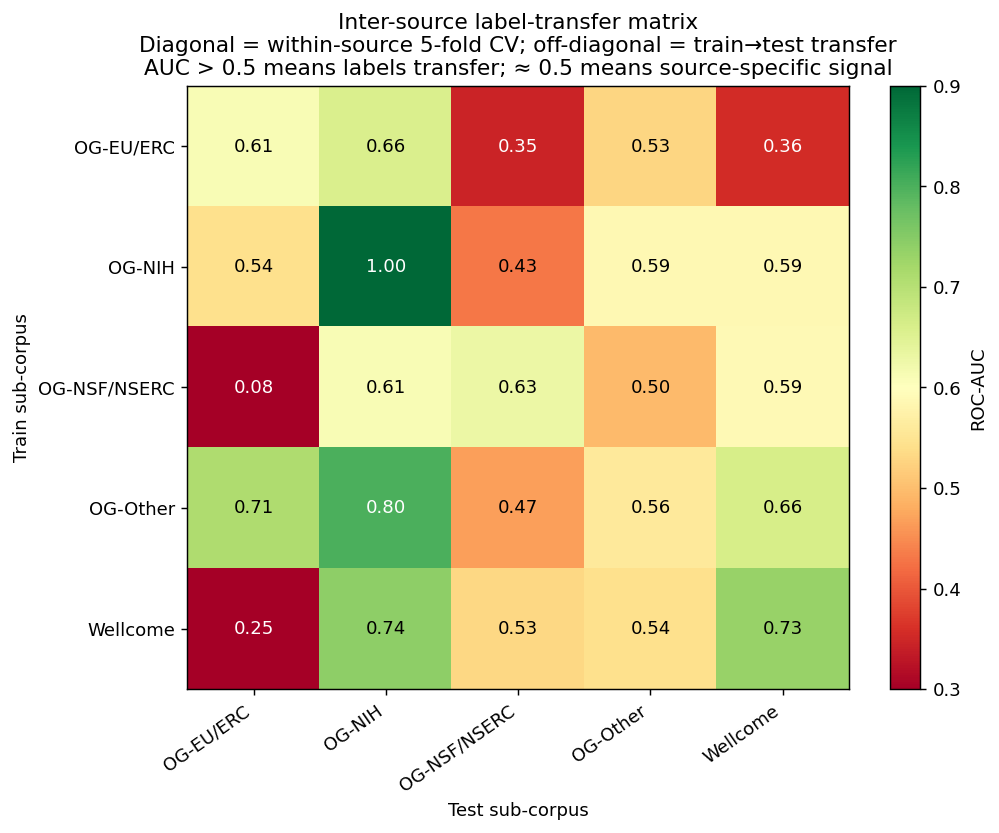
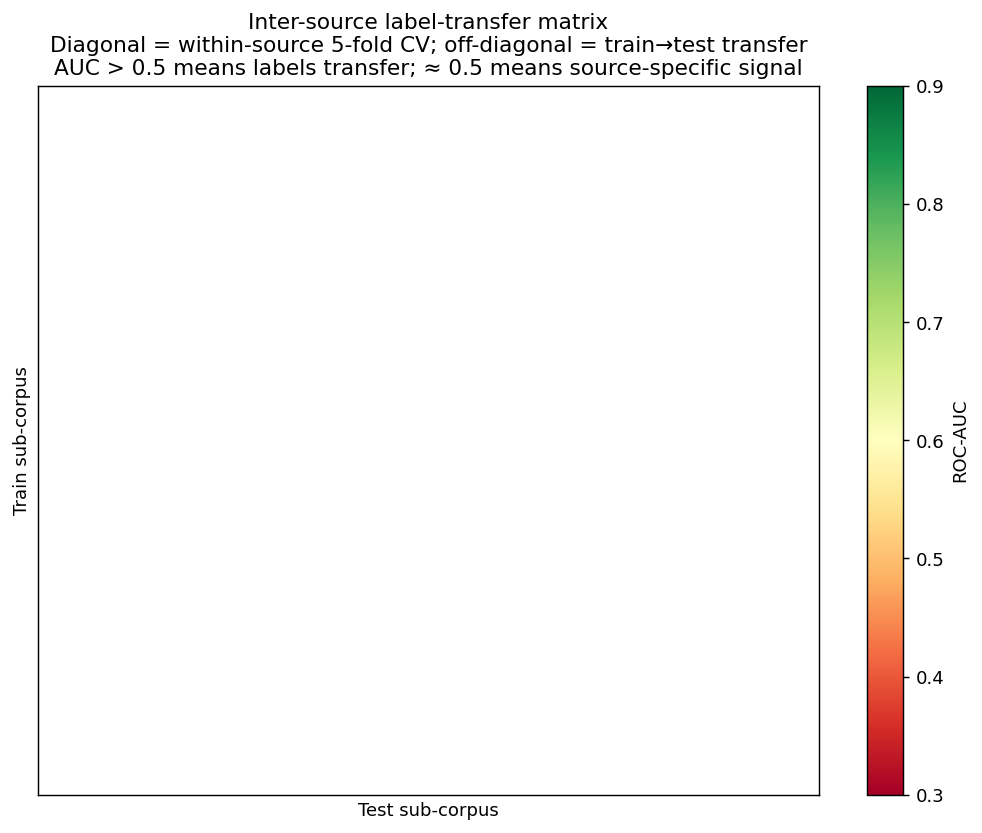
Make every documented command actually run, and correct the claims that were false
The release documented a reproduction path that did not work. Each script now either runs
against this repository alone or states exactly which missing input it needs.

Code fixes:
- code/ablation/ was copied from a backend/scripts/ layout and imported `scripts.ablation`,
  so nothing in it could import. Imports are now package-relative and results resolve to
  the repository's own results/ directory. `cd code && python -m ablation.run --tag
  ogrants166 --aggregate-only` now reproduces all 13 arms offline, with no API key.
- Analysis scripts indexed d["abs_path"], a manifest field renamed to rel_path during
  sanitising, so they died with KeyError. Fixed, and rel_path now resolves against the
  repository root rather than the process working directory.
- wellcome_label_audit.py and build_splits.py resolved their data directory to code/data/
  instead of data/, so the documented audit command could never find its inputs.
- analyze_inter_source_transfer.py wrote to backend/runs/ -- a path from the unpublished
  parent application -- and silently emitted an empty matrix when the document text was
  absent. It writes to data/ and now exits with an explanation instead.
- run_baselines.py injected a hardcoded .venv/lib/python3.11 path into sys.path.
- requirements.txt pinned the parent web application's stack (fastapi, uvicorn, chromadb,
  faiss, sqlalchemy). Replaced with the six packages the code actually imports, noting
  which three suffice for the offline paths.
[…]

diff --git a/code/ablation/run.py b/code/ablation/run.py
@@ -1,20 +1,20 @@
 """CLI orchestrator for the GrantAgent controlled ablation study.
 
-Run from the backend/ directory, e.g.:
+Run from the code/ directory, e.g.:
 
     # smoke test (no key needed; exercises plumbing in heuristic mode)
-    python -m scripts.ablation.run --systems retrieval_knn,single_call --limit 8
+    python -m ablation.run --systems retrieval_knn,single_call --limit 8
 
     # real run on 40 proposals, cheap baselines + full pipeline
-    python -m scripts.ablation.run \
+    python -m ablation.run \
         --systems single_call,multi_criteria_single_call,self_consistency,retrieval_knn,agents_only,no_debate,no_meta,no_guardrails,no_retrieval,full \
         --limit 40 --sc-n 10
 
     # stronger base model
-    LLM_MODEL=gpt-4o-2024-11-20 python -m scripts.ablation.run --systems ... --tag gpt4o
+    LLM_MODEL=gpt-4o-2024-11-20 python -m ablation.run --systems ... --tag gpt4o
 
     # offline re-score: rebuild the report from an existing checkpoint (zero LLM calls)
-    python -m scripts.ablation.run --tag ogrants166 --aggregate-only
+    python -m ablation.run --tag ogrants166 --aggregate-only
 
 Per-proposal predictions stream to a JSONL checkpoint so runs are resumable:
 re-running skips (system,id) pairs already present.  Aggregate metrics and a
@@ -29,16 +29,16 @@ import time
 from pathlib import Path
 
 # --- env must load before any grantagent import (llm singleton at import time) ---
-BACKEND_DIR = Path(__file__).resolve().parents[2]
-sys.path.insert(0, str(BACKEND_DIR))
-from scripts.ablation import envload  # noqa: E402
+REPO_DIR = Path(__file__).resolve().parents[2]
+sys.path.insert(0, str(REPO_DIR))
+from . import envload  # noqa: E402
 envload.load()
 
-from scripts.ablation import dataset, metrics as M  # noqa: E402
-from scripts.ablation.systems import SYSTEMS, BATCH_FIT, Context  # noqa: E402
-from scripts.ablation.budget import METER, meter_llm  # noqa: E402
+from . import dataset, metrics as M  # noqa: E402
+from .systems import SYSTEMS, BATCH_FIT, Context  # noqa: E402
+from .budget import METER, meter_llm  # noqa: E402
 
-OUT_DIR = BACKEND_DIR / "scripts" / "ablation" / "results"
+OUT_DIR = REPO_DIR / "results"
 
 
 def _sc_name(base: str, ctx: Context) -> str:
@@ -49,7 +49,7 @@ def _id_to_source() -> dict:
     """Map eval record id -> source_dataset (from the original run files)."""
     import glob
     m = {}
-    for fp in glob.glob(str(BACKEND_DIR / "runs" / "paper_eval" / "*.json")):
+    for fp in glob.glob(str(REPO_DIR / "runs" / "paper_eval" / "*.json")):
         stem = Path(fp).stem
         try:
             m[stem] = json.load(open(fp)).get("doc", {}).get("source_dataset", "?")

diff --git a/code/analysis/analyze_inter_source_transfer.py b/code/analysis/analyze_inter_source_transfer.py
@@ -36,12 +36,13 @@ warnings.simplefilter("ignore", ConvergenceWarning)
 
 import os
 import argparse
+import sys
 
 # Resolve ROOT relative to script location so the analysis is portable.
 # Override with GRANTREVIEW_ROOT env var.
 ROOT = Path(os.environ.get("GRANTREVIEW_ROOT", Path(__file__).resolve().parents[2]))
 MANIFEST = ROOT / "data" / "master_manifest_v2.json"
-OUT_JSON = ROOT / "backend" / "runs" / "analysis" / "inter_source_transfer.json"
+OUT_JSON = ROOT / "data" / "inter_source_transfer.json"
 OUT_PNG = ROOT / "paper" / "figures" / "v2_transfer_heatmap.png"
 OUT_JSON.parent.mkdir(parents=True, exist_ok=True)
 OUT_PNG.parent.mkdir(parents=True, exist_ok=True)
@@ -62,8 +63,14 @@ def funder_family(funder):
 
 
 def load_text(d):
-    """Load proposal text from disk."""
-    p = Path(d["abs_path"])
+    """Load proposal text from disk.
+
+    Document text is NOT distributed with this repository -- see the README section
+    "Where the document text lives". Fetch it into the paths named by the manifest's
+    rel_path, or point GRANTREVIEW_ROOT at a tree that already has it. Without it every
+    record loads empty and the analysis has nothing to fit.
+    """
+    p = ROOT / d["rel_path"]
     if not p.exists(): return ""
     if d.get("format") == "txt":
         try: return p.read_text(errors="ignore")
@@ -198,6 +205,14 @@ def main():
     M_LO = np.full((n_sources, n_sources), np.nan)
     M_HI = np.full((n_sources, n_sources), np.nan)
     M_P  = np.full((n_sources, n_sources), np.nan)  # one-sided permutation p
+
+    if not sources or all(not final_keep[s] for s in sources):
+        sys.exit(
+            "No proposal text was found, so there is nothing to fit.\n"
+            "This repository ships the manifest, splits, and audit artifacts -- not the\n"
+            "document text. Fetch the documents into the paths named by the manifest's\n"
+            "rel_path field (see the README section 'Where the document text lives'), or\n"
+            "set GRANTREVIEW_ROOT to a tree that already contains them, then re-run.")
 
     print(f"\n=== Inter-source transfer matrix (rows=train, cols=test) ===")
     print(f"Bootstrap iterations: {BOOTSTRAP_ITERS}; permutation iterations: {PERMUTATION_ITERS}; seed: {SEED}")

diff --git a/code/data/build_splits.py b/code/data/build_splits.py
@@ -24,7 +24,7 @@ import random
 from pathlib import Path
 from collections import defaultdict, Counter
 
-ROOT = Path(__file__).resolve().parent
+ROOT = Path(__file__).resolve().parents[2] / "data"
 MANIFEST = ROOT / "master_manifest_v2.json"
 OUT_DIR = ROOT / "splits"
 OUT_FILE = OUT_DIR / "canonical_v1.json"
@@ -73,14 +73,14 @@ def main():
         test += ds[n_train + n_dev:]
 
     # Sanity: no overlap; covers everything
-    train_set = {d["abs_path"] for d in train}
-    dev_set = {d["abs_path"] for d in dev}
-    test_set = {d["abs_path"] for d in test}
-    shift_set = {d["abs_path"] for d in shift}
+    train_set = {d["rel_path"] for d in train}
+    dev_set = {d["rel_path"] for d in dev}
+    test_set = {d["rel_path"] for d in test}
+    shift_set = {d["rel_path"] for d in shift}
     assert len(train_set & dev_set) == 0
     assert len(train_set & test_set) == 0
     assert len(dev_set & test_set) == 0
-    assert (train_set | dev_set | test_set | shift_set) == {d["abs_path"] for d in apps}, "split coverage mismatch"
+    assert (train_set | dev_set | test_set | shift_set) == {d["rel_path"] for d in apps}, "split coverage mismatch"
 
     # Stats
     def stats(name, items):

diff --git a/code/ablation/dataset.py b/code/ablation/dataset.py
@@ -19,9 +19,9 @@ from dataclasses import dataclass, field
 from pathlib import Path
 from typing import Optional
 
-BACKEND_DIR = Path(__file__).resolve().parents[2]
-RUNS_DIR = BACKEND_DIR / "runs" / "paper_eval"
-CACHE_PATH = BACKEND_DIR / "scripts" / "ablation" / "eval_cache.json"
+REPO_DIR = Path(__file__).resolve().parents[2]
+RUNS_DIR = REPO_DIR / "runs" / "paper_eval"
+CACHE_PATH = REPO_DIR / "scripts" / "ablation" / "eval_cache.json"
 
 VALID_LABELS = {"awarded", "declined"}
 
@@ -133,9 +133,9 @@ def label_summary(records: list[EvalRecord]) -> dict:
 
 
 if __name__ == "__main__":
-    # Standalone cache builder:  python -m scripts.ablation.dataset
+    # Standalone cache builder:  python -m ablation.dataset
     import sys
-    sys.path.insert(0, str(BACKEND_DIR))
+    sys.path.insert(0, str(REPO_DIR))
     from . import envload
     envload.load()
     recs = build_cache()

diff --git a/code/analysis/analyze_groupkfold_auc.py b/code/analysis/analyze_groupkfold_auc.py
@@ -25,10 +25,10 @@ Reproducibility
 
 Usage
 -----
-    python backend/scripts/analyze_groupkfold_auc.py
+    python code/analysis/analyze_groupkfold_auc.py
         Prints the GroupKFold AUC column for all baselines that have run/*/*.json files.
 
-    python backend/scripts/analyze_groupkfold_auc.py --baseline length
+    python code/analysis/analyze_groupkfold_auc.py --baseline length
         Single baseline.
 """
 from __future__ import annotations
@@ -42,7 +42,7 @@ from sklearn.metrics import roc_auc_score
 from sklearn.model_selection import GroupKFold
 
 ROOT = Path(__file__).resolve().parents[2]
-# Per-baseline result dirs live under backend/runs/baselines/{baseline}/.
+# Per-baseline result dirs live under the directory given by --runs-dir.
 # Override with --runs-dir if your layout differs.
 RUNS = ROOT / "backend" / "runs" / "baselines"
 DEFAULT_BASELINES = (

diff --git a/code/ablation/crossmodel.py b/code/ablation/crossmodel.py
@@ -3,7 +3,7 @@
 Re-aggregates each tag with the current metrics code (pure cache read), then emits
 a compact per-model table: same 40 source-controlled proposals, same systems.
 
-Usage:  python -m scripts.ablation.crossmodel
+Usage:  python -m ablation.crossmodel
 """
 from __future__ import annotations
 
@@ -35,7 +35,7 @@ SYSTEMS_ARG = "retrieval_knn,single_call,multi_criteria_single_call,agents_only,
 def reaggregate(tag: str) -> None:
     """Regenerate the tag's report from its checkpoint (no LLM calls)."""
     subprocess.run(
-        [sys.executable, "-m", "scripts.ablation.run",
+        [sys.executable, "-m", "ablation.run",
          "--systems", SYSTEMS_ARG, "--source", "ogrants", "--balance", "20",
          "--tag", tag],
         cwd=BACKEND, capture_output=True, text=True, timeout=600,

diff --git a/code/ablation/envload.py b/code/ablation/envload.py
@@ -13,7 +13,7 @@ import os
 from pathlib import Path
 
 # backend/  (two levels up from scripts/ablation/envload.py)
-BACKEND_DIR = Path(__file__).resolve().parents[2]
+REPO_DIR = Path(__file__).resolve().parents[2]
 
 
 def load(path: str | os.PathLike | None = None, override: bool = False) -> dict:
@@ -21,7 +21,7 @@ def load(path: str | os.PathLike | None = None, override: bool = False) -> dict:
 
     Returns a dict of the keys that were set (values omitted for safety).
     """
-    env_path = Path(path) if path else BACKEND_DIR / ".env"
+    env_path = Path(path) if path else REPO_DIR / ".env"
     applied: dict[str, bool] = {}
     if not env_path.exists():
         return applied

diff --git a/code/ablation/analyze.py b/code/ablation/analyze.py
@@ -5,7 +5,7 @@ Reads results/<tag>/ablation_report.json and emits:
   * the budget-matched comparison: full vs self_consistency@N at similar token cost
   * a plain-English findings block for "When Multi-Agent LLM Grant Review Fails"
 
-Usage:  python -m scripts.ablation.analyze --tag paired20
+Usage:  python -m ablation.analyze --tag paired20
 """
 from __future__ import annotations
 
@@ -13,8 +13,8 @@ import argparse
 import json
 from pathlib import Path
 
-BACKEND_DIR = Path(__file__).resolve().parents[2]
-OUT_DIR = BACKEND_DIR / "scripts" / "ablation" / "results"
+REPO_DIR = Path(__file__).resolve().parents[2]
+OUT_DIR = REPO_DIR / "results"
 
 
 def _sig_label(p) -> str:

diff --git a/code/analysis/run_baselines.py b/code/analysis/run_baselines.py
@@ -29,7 +29,6 @@ OUT_BASE = ROOT / "runs" / "baselines"
 OUT_BASE.mkdir(parents=True, exist_ok=True)
 
 sys.path.insert(0, str(ROOT))
-sys.path.insert(0, str(ROOT / ".venv/lib/python3.11/site-packages"))
 
 from openai import OpenAI
 from grantagent.ingest.extract import extract_text
@@ -197,7 +196,7 @@ def main():
             skipped += 1
             continue
 
-        fp = Path(doc["abs_path"])
+        fp = Path(doc["rel_path"])
         if not fp.exists():
             failures += 1
             continue

diff --git a/code/ablation/__init__.py b/code/ablation/__init__.py
@@ -1,7 +1,7 @@
 """Compute-matched ablation harness for the GrantAgent controlled study.
 
 Modules:
-    envload   -- load backend/.env into os.environ (zero-dependency)
+    envload   -- load a local .env into os.environ (zero-dependency)
     budget    -- LLM call/token accounting (the "same total compute" axis)
     dataset   -- build/load the sectionized eval cache from runs/paper_eval
     systems   -- the systems-under-test (baselines + ablations of the full pipeline)

diff --git a/code/data/wellcome_label_audit.py b/code/data/wellcome_label_audit.py
@@ -45,7 +45,7 @@ import random
 import re
 from pathlib import Path
 
-DATA = Path(__file__).resolve().parent
+DATA = Path(__file__).resolve().parents[2] / "data"
 MANIFEST = DATA / "master_manifest_v2.json"
 SAMPLE_OUT = DATA / "wellcome_audit_sample.jsonl"
 SEED = 42

diff --git a/README.md b/README.md
@@ -29,7 +29,7 @@ open `results/ogrants166/ablation_table.md`, or re-derive every aggregate from t
 per-item predictions — no API key, no network, no cost:
 
 ```bash
-python -m code.ablation.run --tag ogrants166 --aggregate-only
+cd code && python -m ablation.run --tag ogrants166 --aggregate-only
 ```
 
 **To evaluate your own system.** Score each proposal in `data/master_manifest_v2.json`,
@@ -40,7 +40,7 @@ place it at `results/<your-tag>/predictions.jsonl`:
 {"system": "my-system", "id": "grb1_<id>.pdf", "label": "awarded", "pred": "awarded", "score": 3.5}
 ```
 
-Then run the same `--aggregate-only` command with your tag to get accuracy, balanced
+Then run the same `--aggregate-only` command with your tag (from `code/`) to get accuracy, balanced
 accuracy, MCC, AUC with bootstrap CIs, ECE, and McNemar tests against the other arms.
 Report the metrics listed under *Recommended evaluation protocol* below.
 
@@ -48,7 +48,7 @@ Report the metrics listed under *Recommended evaluation protocol* below.
 
 ```bash
 export LLM_PROVIDER=openai LLM_MODEL=gpt-4o-mini-2024-07-18 OPENAI_API_KEY=...
-python -m code.ablation.run --systems single_call,full --source ogrants --tag my-run
+cd code && python -m ablation.run --systems single_call,full --source ogrants --tag my-run
 ```
 
 The document text is not distributed here — see *Where the document text lives* below for
@@ -58,20 +58,36 @@ how to obtain it.
 
 ```bash
 
-# §3.4 Wellcome labeling-rule audit
-python code/data/wellcome_label_audit.py --audit
-# Expected: 50/50 agreement, Wilson CI [0.929, 1.000], κ=1.000
-
+# §3.4 Wellcome labeling-rule audit — scores the shipped 50-entry gold sample.
+# Runs against this repository alone.
 python code/data/wellcome_label_audit.py --score data/wellcome_audit_gold.jsonl
-# Expected: 50/50, same Wilson CI, κ=1.000, inter-rater 50/50
+# Expected: 50/50, Wilson CI [0.929, 1.000], κ=1.000, inter-rater 50/50
 
-# §5.3 inter-source label-transfer matrix (5×5; bootstrap CIs + permutation null)
+# --audit re-derives that sample from Wellcome's raw decision manifest, which is NOT
+# shipped here (it is source data, not a release artifact). It reports what is missing
+# and exits rather than producing partial output.
+python code/data/wellcome_label_audit.py --audit
+
+# §5.3 inter-source label-transfer matrix (bootstrap CIs + permutation null).
+# Needs the document text — see "Where the document text lives". Without it the script
+# says so and exits rather than emitting an empty matrix.
 python code/analysis/analyze_inter_source_transfer.py
-# Expected: 5 sub-corpora kept (N=11/22/56/59/155); NSF→EU/ERC = 0.08 [0.00,0.32], permutation p=0.024
+# With text present: 5 sub-corpora (N=11/22/56/59/155); NSF→EU/ERC = 0.08 [0.00,0.32], permutation p=0.024
 
 # Table 6 GroupKFold AUC column (requires per-baseline run files; see code/README)
 python code/analysis/analyze_groupkfold_auc.py --runs-dir <your-runs-dir>
 ```
+
+**What runs with no extra data:** the label-audit `--score` mode and the whole ablation
+aggregation path above. Everything else needs either the document text or per-baseline run
+files, and each script now says which one it is missing instead of failing obscurely.
+
+**How to read that κ = 1.000.** In the shipped `wellcome_audit_gold.jsonl`, both rater
+columns agree with the keyword rule on all 50 rows, with no disagreements anywhere. Perfect
+agreement between two raters *and* a heuristic, over 50 items, is not plausible as an
+independent check — read this as a **consistency check confirming the rule was applied as
+written**, not as evidence that the rule is correct. Independent adjudication of the
+labeling rule, with a real disagreement rate, remains open work.
 
 All numbers are produced by these scripts with `random.seed(42)`, `np.random.seed(42)`, `StratifiedKFold(random_state=42)`, and `numpy.random.RandomState(42)` for the bootstrap (43 for the permutation null, decorrelated). LLM model snapshots pinned to `gpt-4o-2024-08-06` and `gpt-4o-mini-2024-07-18`.
 
@@ -115,10 +131,15 @@ grantreview-bench/
 │   │   ├── analyze_inter_source_transfer.py   (§5.3 transfer matrix + bootstrap + permutation)
 │   │   ├── analyze_groupkfold_auc.py          (Table 6 GroupKFold AUC column)
 │   │   └── run_baselines.py                   (per-doc score generation; pinned snapshots)
+│   ├── ablation/                              (multi-agent evaluation harness)
 │   └── data/
 │       ├── build_master_v2.py                 (master manifest builder; portable)
 │       ├── build_splits.py                    (canonical 70/15/15 splits; seed=42)
+│       ├── anonymize_release.py               (opaque-id rewrite; maintainers only)
+│       ├── remap_results.py                   (rekeys harness output onto release ids)
 │       └── wellcome_label_audit.py            (§3.4 audit; --audit and --score modes)
+├── results/                     (measured reference results)
+│   └── ogrants166/                            (13 architecture arms, N=166)
 ├── data/                        (manifests + splits + audit artifacts; NOT the documents)
 │   ├── master_manifest_v2.json                (455 application records; rel_path inside)
 │   ├── splits/canonical_v1.json               (70/15/15 + SERC holdout)
@@ -133,7 +154,10 @@ grantreview-bench/
 This repo ships the **manifest, splits, audit artifacts, and code** — but not the document text itself. Document text is distributed under three tiers (per `LICENSE.md`):
 
 - **Open Grants** (166 docs, CC BY 4.0) and **Wellcome ORF 2018/19** (155 docs, redistributed under non-commercial academic research use (US fair use + UK fair dealing) with attribution) — distributed via HuggingFace (dataset URL pending upload at paper acceptance).
-- **NIH/NSF/SERC** (124 docs) — link-only; `code/data/build_master_v2.py` fetches from per-IC URLs.
+- **NIH/NSF/SERC** (124 docs) — link-only, and obtained **manually** from the agencies'
+  public sample-application pages. There is no automated fetcher: `build_master_v2.py`
+  indexes documents already present on disk and makes no network calls, and the manifest
+  carries no per-document source URL. Adding both is open work.
 - **Declined extras** (10 docs, mixed) — per-file decision in `data/declined_extras_provenance.json`.
 
 ## Reference system results
@@ -153,7 +177,7 @@ identifiers as the manifest, so results join directly to corpus metadata.
 Re-aggregate the reports offline, without any API calls:
 
 ```bash
-python -m code.ablation.run --tag ogrants166 --aggregate-only
+cd code && python -m ablation.run --tag ogrants166 --aggregate-only
 ```
 
 Token counts are exact for the single-shot and self-consistency arms and `chars/4`
